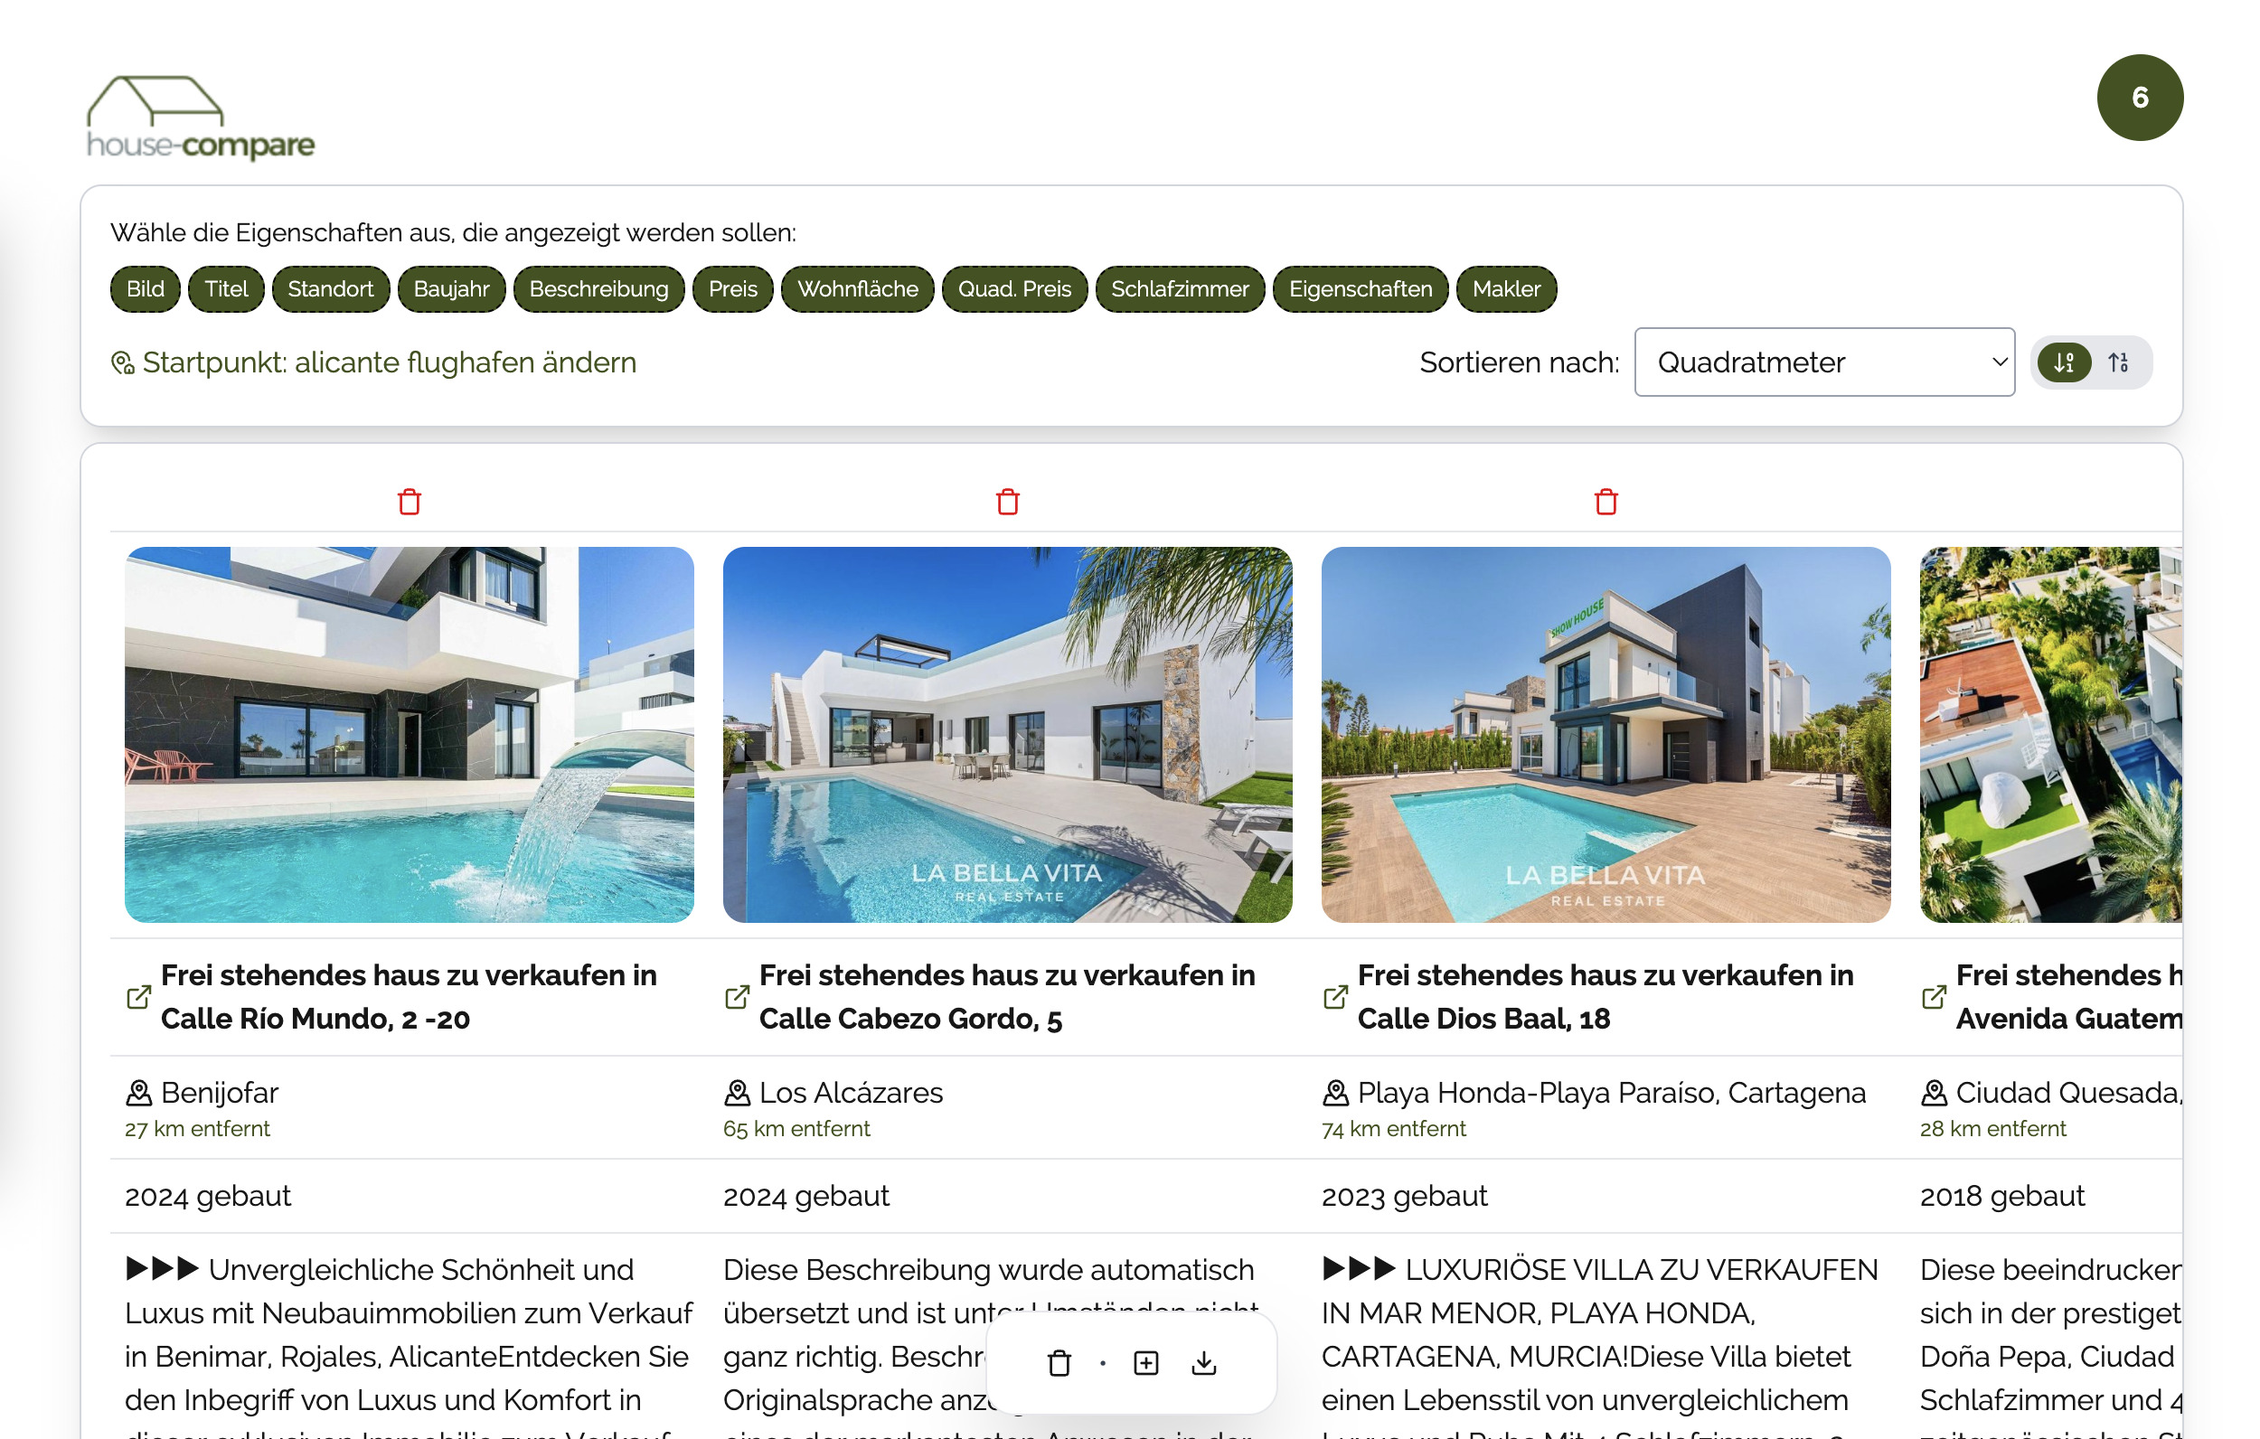
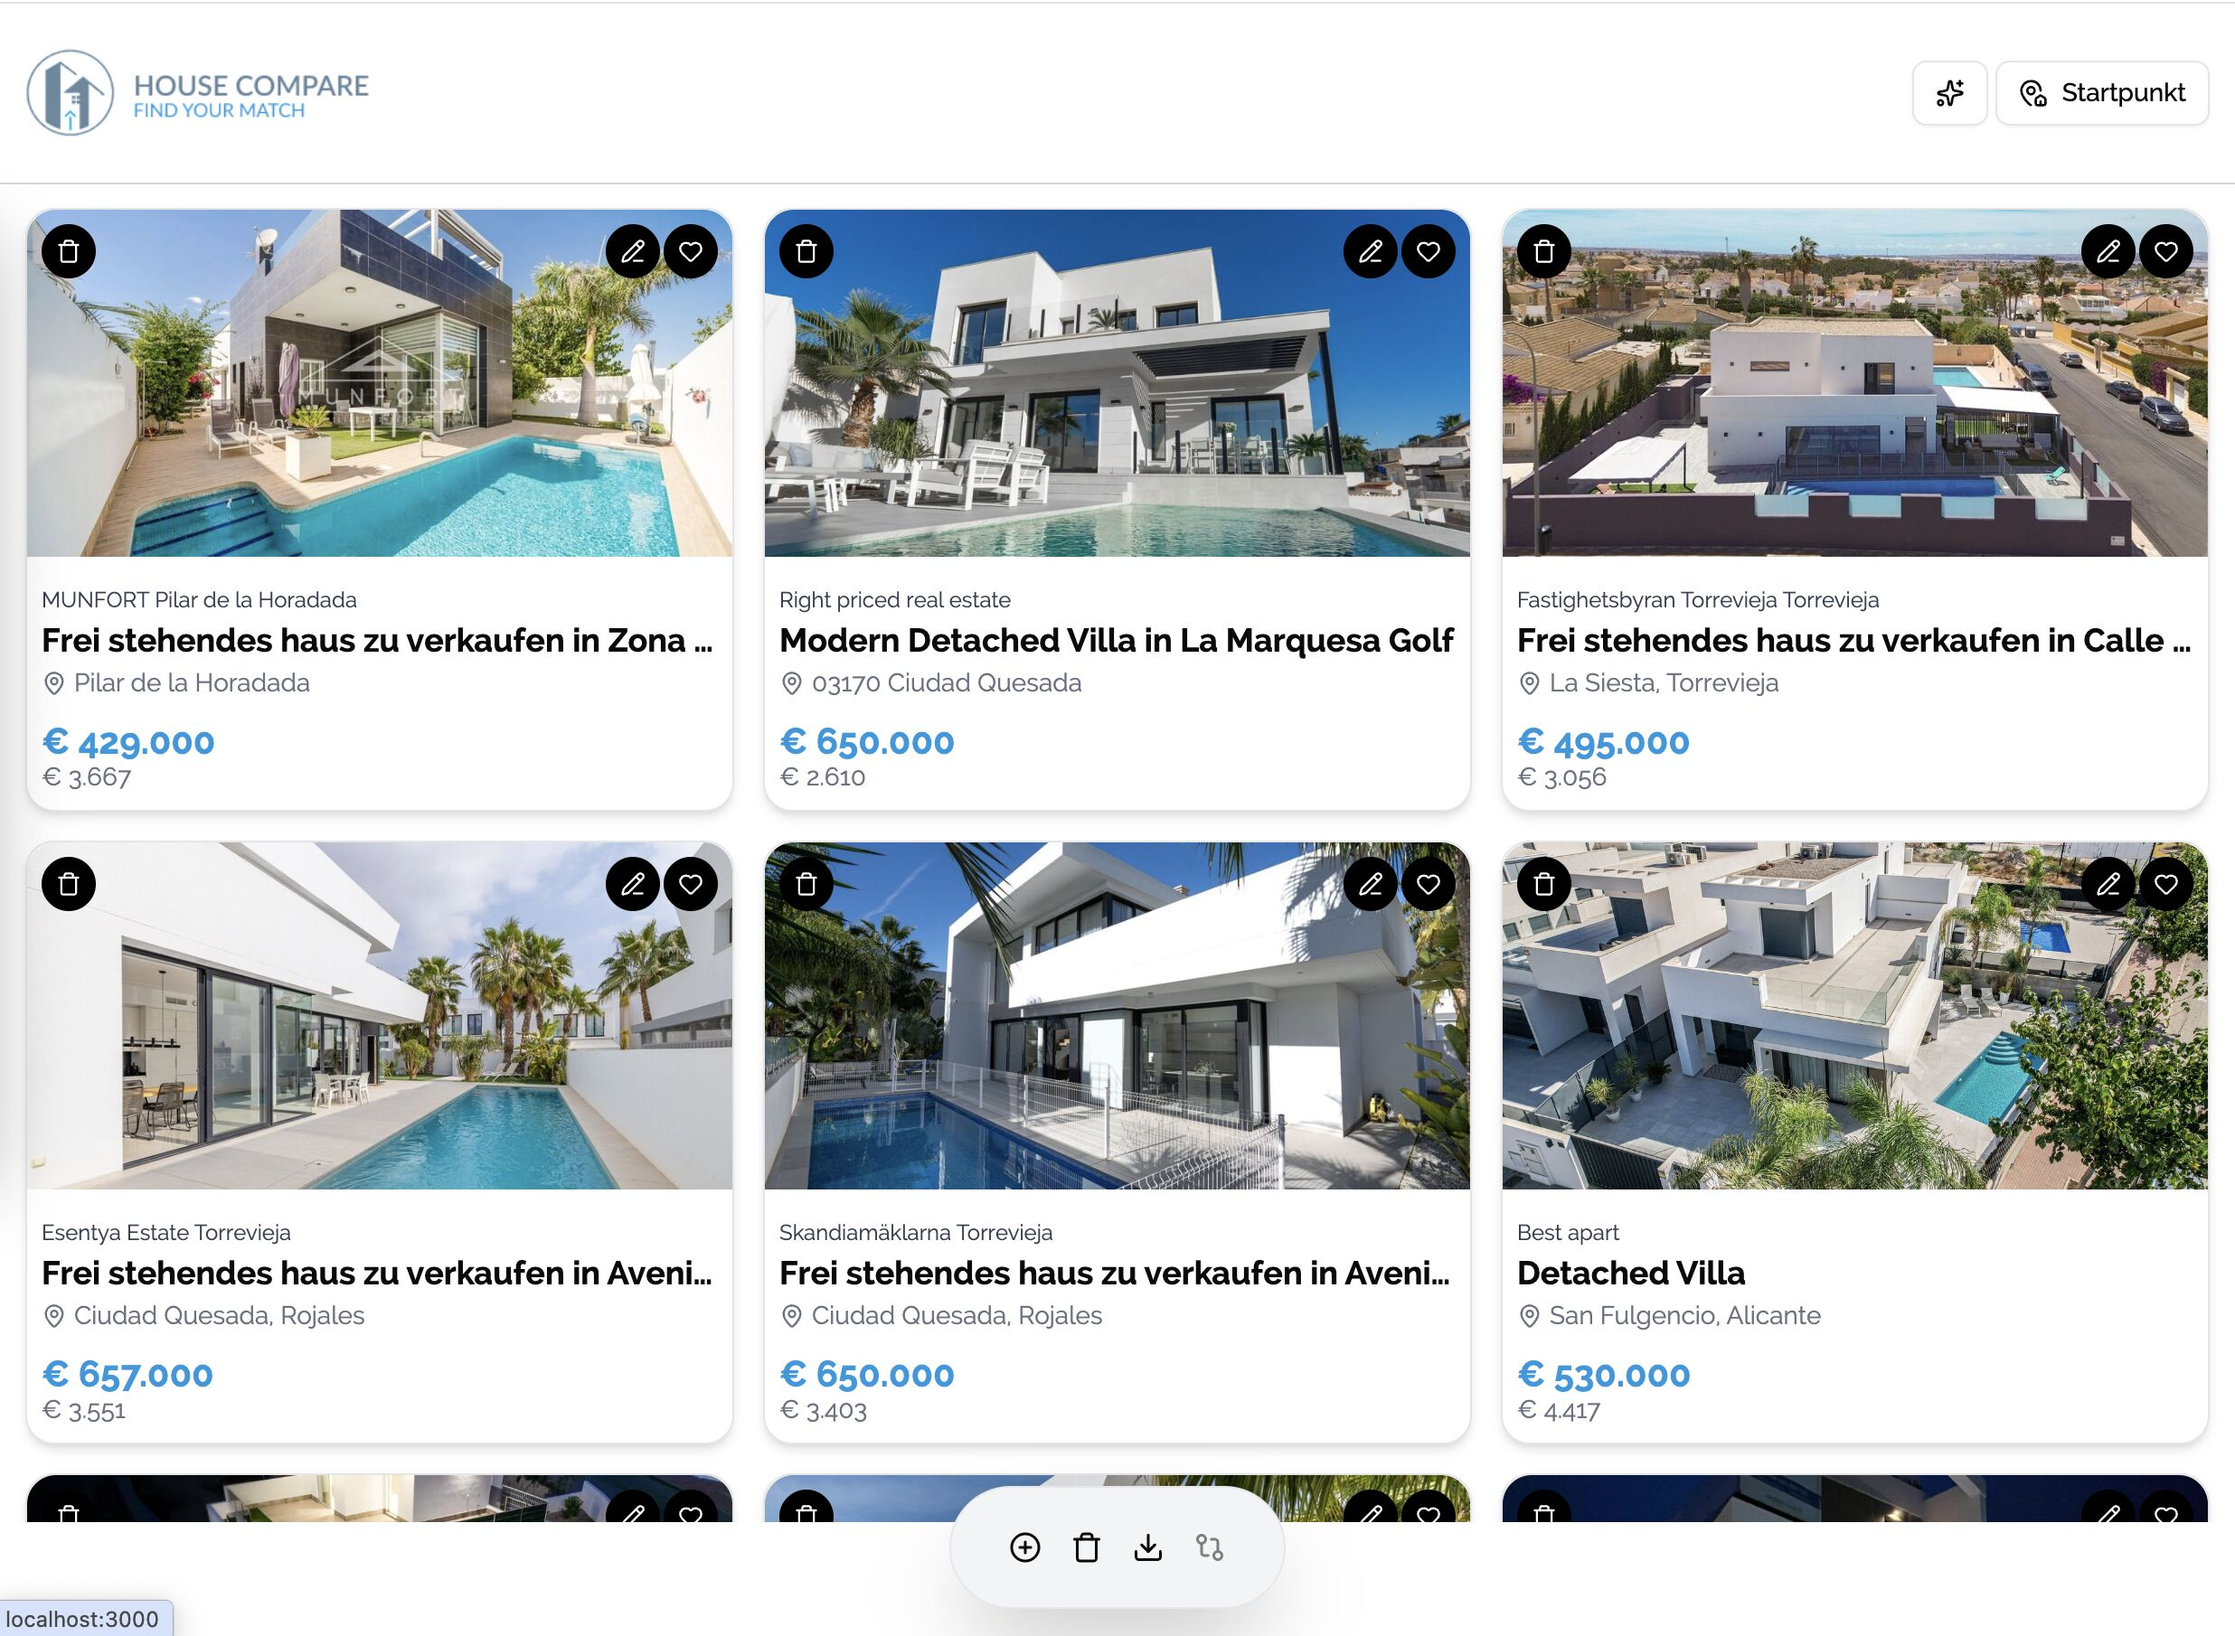
sme description

diff --git a/README.md b/README.md
@@ -9,28 +9,34 @@ captcha hits hard and could not get it done in less effort (tried puppeteer, pla
 ## ideas for future implementations
 
 - add translation of description possibility
-- edit some attributes later
 - share links via datenkommo.de
 - add personal notes
 - show map on compare
 - show map when entering location
-- native language filtering via input line (maybe use panel). gray out estates out of filter
 
 ## features
 
 - set real estate data manually or from idealista html
-- redirect to google map
 - export and import of data
 - storage in browser
+- favorite colelction
+- comparison of real estates by user selection (up to 3)
 - add starting point to calculate distance (air)
+- works on mobile and desktop
 
 ## Some insights
 
 ### Overview
 
-This is the overview where you can sort, filter and compare your dream houses.
+Collect all your favorite real estates. Mark them by click on the heart and go into compare mode.
 
 ![](./screen1.jpg)
+
+![](./screen2.jpg)
+
+Some filters help to reduce your favorites to focus on your criterias.
+
+![](./screen3.jpg)
 
 ### Location
 
@@ -44,7 +50,6 @@ You can define a starting point and the (air) distance is calculated to give you
 - tailwind css
 - ~~cheerio (server api parses the HTML here)~~ replaced with DOM parsing to be deployable on GH pages
 - lucide-react for nice symbols
-- motion for microanimations
 
 ## Getting Started
 
